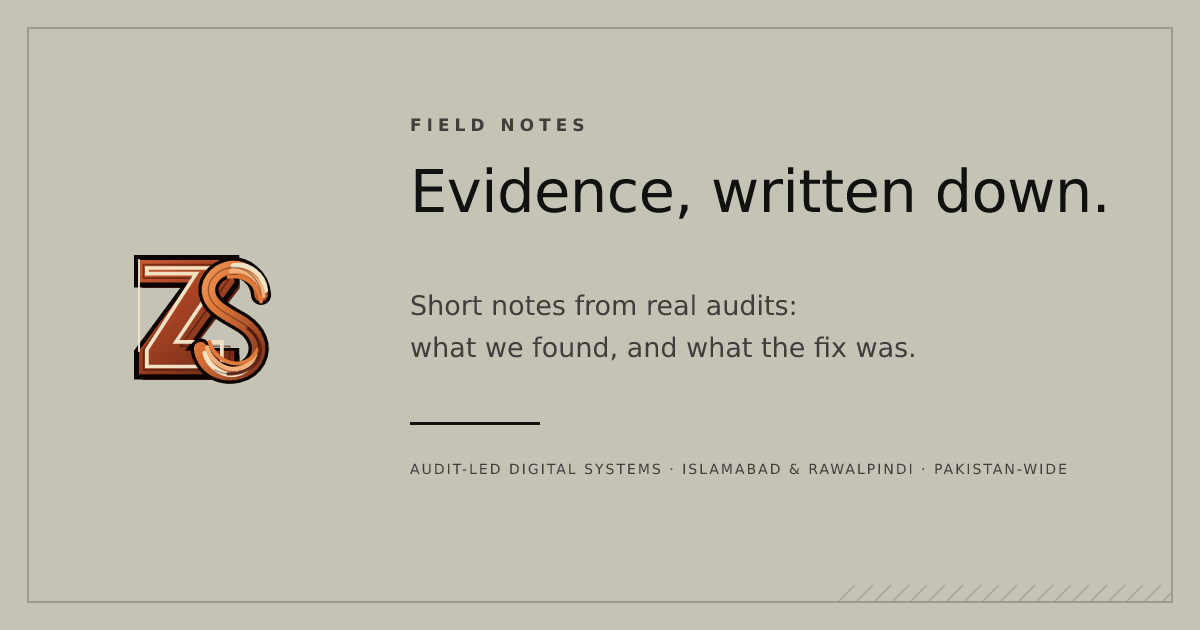
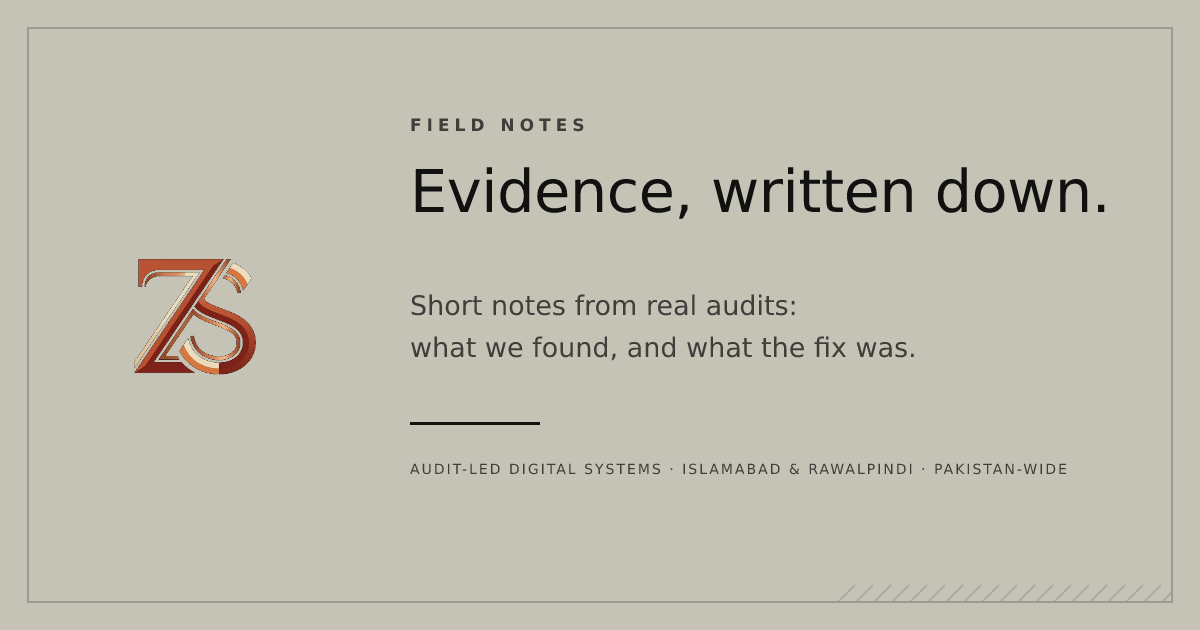
Deploy the original clay mark to every big canvas
The pixel original (source-logo.png, landed via GitHub upload) was
archived but visible nowhere. The flat SVG rebuild keeps every small
size (header/footer 34px, favicon, icon-192 - it was cut for that,
the original blobs below 64px), but the big canvases now carry the
real artwork:

- About page monogram card (240px): original transparent cut
- 404 room mark (96px): original transparent cut
- ALL 11 OG share images regenerated with the original as the card
  mark (generate-assets.mjs inlines it as a data-URI raster instead
  of the flat SVG) - this is what renders when the site is shared
- PWA icon-512: the original centered on the ink ground (#050505);
  maskable-512 and icon-192 keep the flat cut for safe zones

Build green; about.html + 404.html reference the original.

Changed region(s): [[0.0925, 0.3921, 0.2467, 0.6333]]

diff --git a/src/app/about/page.tsx b/src/app/about/page.tsx
@@ -88,7 +88,7 @@ export default function AboutPage() {
               />
             ) : (
               <img
-                src="/images/logo-mark.svg"
+                src="/images/logo-mark-transparent-original.png"
                 alt=""
                 aria-hidden="true"
                 className="monogram-mark"

diff --git a/src/app/not-found.tsx b/src/app/not-found.tsx
@@ -10,7 +10,7 @@ export default function NotFound() {
   return (
     <section className="notfound">
       <img
-        src="/images/logo-mark.svg"
+        src="/images/logo-mark-transparent-original.png"
         alt=""
         aria-hidden="true"
         className="notfound-mark"
